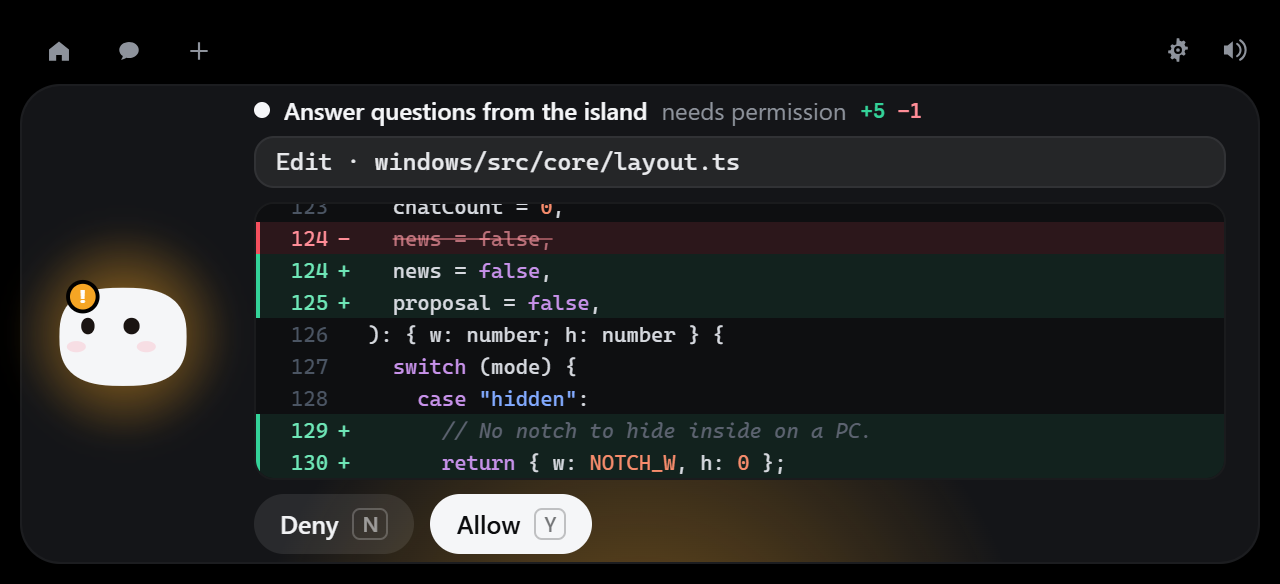
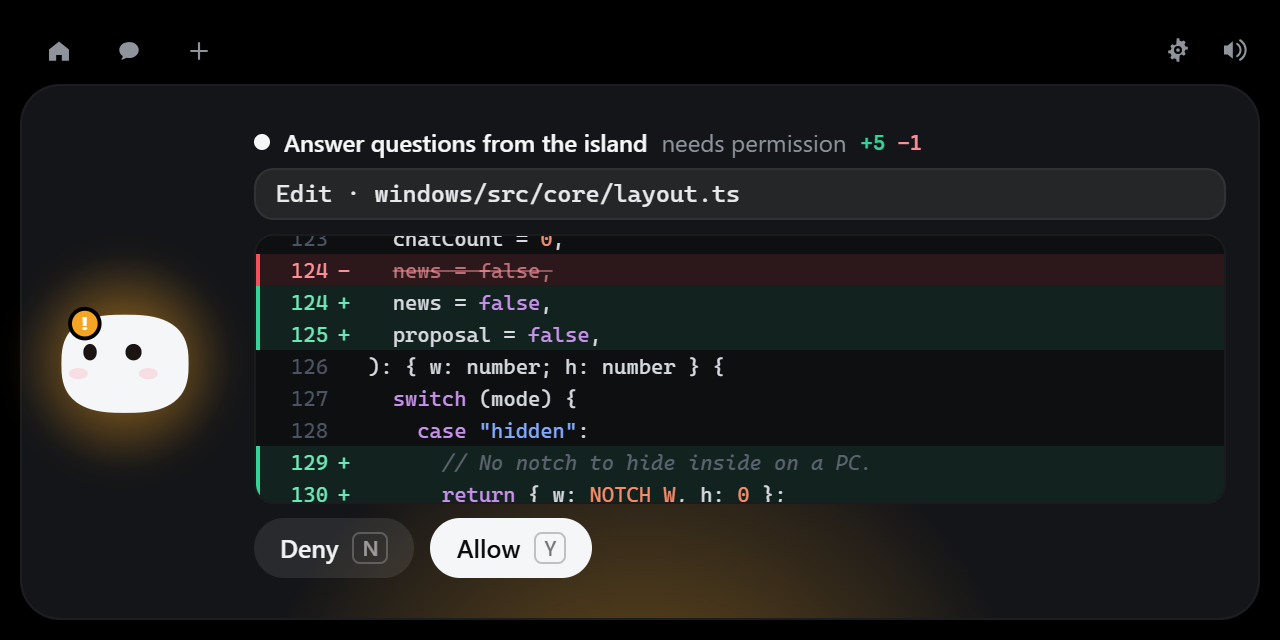
Windows: session tabs in the island's bar, and air around an approval's diff
With several sessions open their tabs sat under the session's card, which made it taller and crowded, and again at the foot of the panel's column, which took steps away from it. They are in the middle of the island's bar instead: out of the cards' way, and one click away from any view. Picking one brings Claude's pill forward if another had the front.

An approval card that shows a diff let the diff take all the height, so the card's first line and its buttons touched its edges. It keeps the air the other cards have, and the island gives the diff the room the window allows.

diff --git a/windows/src/views/views.ts b/windows/src/views/views.ts
@@ -5,7 +5,7 @@
 import { h, svg, clear, dot, replay } from "./dom";
 import { ICONS } from "./icons";
 import { CLAUDE_ID, State, TURN_DONE, turnSteps, type AgentTask, type ClaudeSession, type SessionStep } from "../core/state";
-import { VIEW_LAYOUTS, fittedHeight, washRGBA, type BotEmoteName, type BotStateName, type IslandViewName, type Wash } from "../core/layout";
+import { fittedHeight, washRGBA, type BotEmoteName, type BotStateName, type IslandViewName, type Wash } from "../core/layout";
 import { createMiniBot, pruneMiniBots } from "../mochi/minibots";
 import { buildPrompt } from "./chat";
 import { buildChoose, buildUpload, buildUploading } from "./upload";
@@ -67,8 +67,6 @@ export interface ViewActions {
   pickSession(id: string): void;
 }
 
-/** With several sessions, the overview has a row of tabs under the session's card: this much taller. */
-const SESSION_TABS_ROOM = 24;
 /** Lines of a step's preview the overview has room for. */
 const NOW_LINES = 3;
 
@@ -221,10 +219,17 @@ export function buildHeader(actions: ViewActions): ViewHost {
     actions.setView(v);
   }
 
+  // With several Claude Code sessions open: a tab for each of the ones behind
+  // the session on show, in the middle of the bar — where they can be reached
+  // from any view, and out of the cards' way.
+  const sessions = h("div", { class: "sess-tabs" });
+  const syncSessions = sessionTabs(sessions, (id) => actions.pickSession(id));
+
   const el = h(
     "div",
     { id: "header" },
     h("div", { class: "tabs" }, tabHome, tabChat, tabDrop),
+    sessions,
     h("div", { class: "header-actions" }, gearBtn, soundBtn),
   );
 
@@ -241,6 +246,7 @@ export function buildHeader(actions: ViewActions): ViewHost {
       gearBtn.append(svg(v === "settings" ? ICONS.gearFill : ICONS.gear, 14));
       clear(soundBtn);
       soundBtn.append(svg(State.settings.soundEnabled ? ICONS.speakerOn : ICONS.speakerOff, 14));
+      syncSessions();
       el.style.opacity = v === "confused" ? "0" : "1";
     },
   };
@@ -248,16 +254,12 @@ export function buildHeader(actions: ViewActions): ViewHost {
 
 // ── Overview ──────────────────────────────────────────────────────────────────
 
-function buildOverview(actions: ViewActions, onResize: () => void): ViewHost {
+function buildOverview(actions: ViewActions): ViewHost {
   const who = h("div", { class: "who" });
   // What the session is doing: the step, and under it a look at what it did.
   const nowLine = h("div", { class: "now-line" });
   const nowBox = h("div", { class: "now-box" });
-  // With several sessions open: a tab for each of the others.
-  const tabs = h("div", { class: "sess-tabs" });
-  const syncTabs = sessionTabs(tabs, (id) => actions.pickSession(id));
-  const sessionBody = h("div", { class: "card-body" }, who, nowLine, nowBox, tabs);
-  let tabbed = false;
+  const sessionBody = h("div", { class: "card-body" }, who, nowLine, nowBox);
   const leftBody = h("div", { class: "left-body" });
   const jump = h(
     "button",
@@ -348,9 +350,6 @@ function buildOverview(actions: ViewActions, onResize: () => void): ViewHost {
 
   return {
     el,
-    get height() {
-      return tabbed ? VIEW_LAYOUTS.overview.height + SESSION_TABS_ROOM : undefined;
-    },
     sync() {
       const task = State.focusTask;
       if (task?.id !== lastFocus) {
@@ -404,12 +403,6 @@ function buildOverview(actions: ViewActions, onResize: () => void): ViewHost {
       }
 
       jump.style.display = detailOpen ? "none" : "";
-
-      const nowTabbed = syncTabs() > 0 && mode === "session";
-      if (nowTabbed !== tabbed) {
-        tabbed = nowTabbed;
-        onResize();
-      }
 
       left.classList.toggle("opens", mode === "session");
       left.title = mode === "session" ? "Open the session" : "";
@@ -494,7 +487,8 @@ function buildApproval(actions: ViewActions): ViewHost {
   // For an edit: the diff it would make, between what is asked and the answer.
   const proposed = h("div", { class: "proposed gh-code" });
   const row = h("div", { class: "actions" });
-  const el = h("div", { class: "view" }, card("amber", stack(116, 16, who, code, proposed, row)));
+  const lines = stack(116, 16, who, code, proposed, row);
+  const el = h("div", { class: "view" }, card("amber", lines));
   let rowKey = "";
   let proposedKey = "";
   return {
@@ -515,6 +509,9 @@ function buildApproval(actions: ViewActions): ViewHost {
       // What that edit would do, line by line, before it is allowed. Drawn once
       // per request: a list redrawn under the mouse would lose its scroll.
       proposed.style.display = proposal ? "" : "none";
+      // A diff takes all the room it is given: the card keeps the air a
+      // card has above its first line and under its buttons.
+      lines.classList.toggle("airy", proposal != null);
       const nextProposed = proposal ? (approval?.requestId ?? "") : "";
       if (nextProposed !== proposedKey) {
         proposedKey = nextProposed;
@@ -1001,7 +998,7 @@ export function buildViews(
   onChatHeightChange: () => void,
 ): Map<IslandViewName, ViewHost> {
   const map = new Map<IslandViewName, ViewHost>();
-  map.set("overview", buildOverview(actions, onChatHeightChange));
+  map.set("overview", buildOverview(actions));
   map.set("empty", buildEmpty(actions));
   map.set("approval", buildApproval(actions));
   map.set("question", buildQuestion(actions, onChatHeightChange));

diff --git a/windows/src/views/session.ts b/windows/src/views/session.ts
@@ -80,7 +80,7 @@ function standing(session: ClaudeSession): { color: string; words: string } {
 
 /**
  * Keeps a row of tabs in step with the sessions behind the one in front —
- * that one is named right above them. A tab is a dot for where its session is
+ * that one is what the island shows. A tab is a dot for where its session is
  * at, and its name; one waiting for an answer, or with news nobody has seen,
  * stands out in its colour. Tabs are kept and updated where they are: a
  * session that changes state changes its dot's colour, a new one comes in, and
@@ -288,14 +288,7 @@ export function buildSession(actions: ViewActions): ViewHost {
   const name = h("b", { text: UNNAMED });
   const nameSub = h("span", { text: UNNAMED });
   const steps = h("div", { class: "sess-steps" });
-  // The sessions behind this one, at the foot of the column: a click puts one in front.
-  const others = h("div", { class: "sess-others" });
-  const syncOthers = sessionTabs(others, (id) => {
-    screen = { kind: "live" };
-    stamp++;
-    actions.pickSession(id);
-  });
-  const side = h("div", { class: "gh-side" }, h("div", { class: "gh-side-who" }, name, nameSub), steps, others);
+  const side = h("div", { class: "gh-side" }, h("div", { class: "gh-side-who" }, name, nameSub), steps);
   const el = h("div", { class: "view gh-view session-view" }, h("div", { class: "card gh-card" }, side, h("div", { class: "gh-col" }, main)));
 
   backBtn.addEventListener("click", () => {
@@ -436,6 +429,8 @@ export function buildSession(actions: ViewActions): ViewHost {
 
   /** The steps the column has shown, and in what state: what is new, or just ended, is animated once. */
   const listed = new WeakMap<SessionStep, SessionStep["state"]>();
+  /** The session the panel was last drawn for. */
+  let followed = "";
   let key = "";
   let headKey = "";
   let stepsKey = "";
@@ -449,9 +444,15 @@ export function buildSession(actions: ViewActions): ViewHost {
       const session = State.session;
       const files = State.sessionFiles;
 
-      // The column: whose session, where it runs, and its last steps — fewer
-      // of them when other sessions take a line each at its foot.
-      const shown = session.steps.filter((s) => !NOT_A_STEP.has(s.kind)).slice(-Math.max(1, STEPS_SHOWN - syncOthers()));
+      // Another session came in front (its tab, in the island's bar): its journal, at its end.
+      if (session.id !== followed) {
+        followed = session.id;
+        screen = { kind: "live" };
+        stamp++;
+      }
+
+      // The column: whose session, where it runs, and its last steps.
+      const shown = session.steps.filter((s) => !NOT_A_STEP.has(s.kind)).slice(-STEPS_SHOWN);
       const nextSteps = [task?.name, session.title, ...shown.map((s) => `${s.tool}:${s.state}:${s.at}`)].join("~");
       if (nextSteps !== stepsKey) {
         stepsKey = nextSteps;

diff --git a/windows/src/style.css b/windows/src/style.css
@@ -3618,19 +3618,23 @@ button.gh-block:hover {
 }
 
 
-/* Several Claude Code sessions at once: under the ticker, a tab for each of
-   the ones behind the session on show. A click puts that one in front. */
+/* Several Claude Code sessions at once: in the middle of the island's bar, a
+   tab for each of the ones behind the session on show. A click puts that one
+   in front. */
 .sess-tabs {
+  flex: 1 1 auto;
   display: flex;
-  gap: 4px;
-  margin: 4px 12px 0 104px;
+  justify-content: center;
+  gap: 5px;
+  margin: 0 18px;
   min-width: 0;
 }
 
 .sess-tab {
   flex: 0 1 auto;
   min-width: 0;
-  height: 19px;
+  max-width: 170px;
+  height: 20px;
   padding: 0 7px;
   display: flex;
   align-items: center;
@@ -3664,25 +3668,6 @@ button.gh-block:hover {
   color: var(--c);
   border-color: color-mix(in srgb, var(--c) 35%, transparent);
   background: color-mix(in srgb, var(--c) 12%, transparent);
-}
-
-/* In the session panel: the sessions behind the one on show, at the column's foot. */
-.sess-others {
-  display: flex;
-  flex-direction: column;
-  gap: 2px;
-  margin: auto -5px 0;
-  padding-top: 8px;
-  min-width: 0;
-}
-
-.sess-others .sess-tab {
-  flex: 0 0 auto;
-  background: transparent;
-}
-
-.sess-others .sess-tab:hover {
-  background: var(--gh-plate);
 }
 
 /* A card about a session names the conversation: a long title gives way to what follows it. */
@@ -4012,4 +3997,12 @@ button.gh-block:hover {
 .jr-body,
 .jr-asks {
   transition: border-color 0.3s ease-out;
+}
+
+/* A stack whose middle stretches (an approval's diff) would fill its card to
+   the brim: it keeps the air the other cards have above and below. Over the
+   padding the stack is built with, which is set on the element. */
+.stack.airy {
+  padding-top: 20px !important;
+  padding-bottom: 20px !important;
 }

diff --git a/windows/src/core/layout.ts b/windows/src/core/layout.ts
@@ -119,9 +119,10 @@ export const NEWS_LINE = 28;
 
 /**
  * An approval card that shows what the edit would do holds a diff between the
- * request and its buttons: the island is that much taller for it.
+ * request and its buttons: the island is that much taller for it — as tall as
+ * the window allows.
  */
-export const PROPOSAL_ROOM = 132;
+export const PROPOSAL_ROOM = PANEL_H - 160;
 
 /**
  * A view whose content varies — a question has two options or four, a line

diff --git a/windows/src/island/island.ts b/windows/src/island/island.ts
@@ -416,6 +416,8 @@ export class Island {
   private pickSession(id: string) {
     if (id === State.frontId) return;
     Sound.play("blip");
+    // Its tab is in the bar whatever pill is in front: picking a session is asking for Claude's.
+    if (State.focusId !== CLAUDE_ID) State.setFocus(CLAUDE_ID);
     State.bringForward(id);
     const session = State.session;
     const waits = session.question != null || session.approval != null;

diff --git a/windows/README.md b/windows/README.md
@@ -111,13 +111,13 @@ Claude, there is Claude Code.
 
 ### Several sessions at once
 
-<img src="screenshots/claude-sessions.png" width="640" alt="Two more sessions as tabs under the card of the one on show">
+<img src="screenshots/claude-sessions.png" width="640" alt="Two more sessions as tabs in the island's bar, above the card of the one on show">
 
 Two conversations in the Claude app, one more in a terminal: each is followed on
 its own, and one of them is in front — the one the card, the panel and Mochi
-show. The others get a tab each, under the card and at the foot of the panel's
-column, with a dot for where they are at: at work, waiting for you, finished. A
-click puts one in front.
+show. The others get a tab each in the island's bar, with a dot for where they
+are at: at work, waiting for you, finished. A click puts one in front, from any
+view.
 
 The island stays on the session it shows for as long as that one is at work or
 being looked at. Another one takes its place when the first has nothing going
